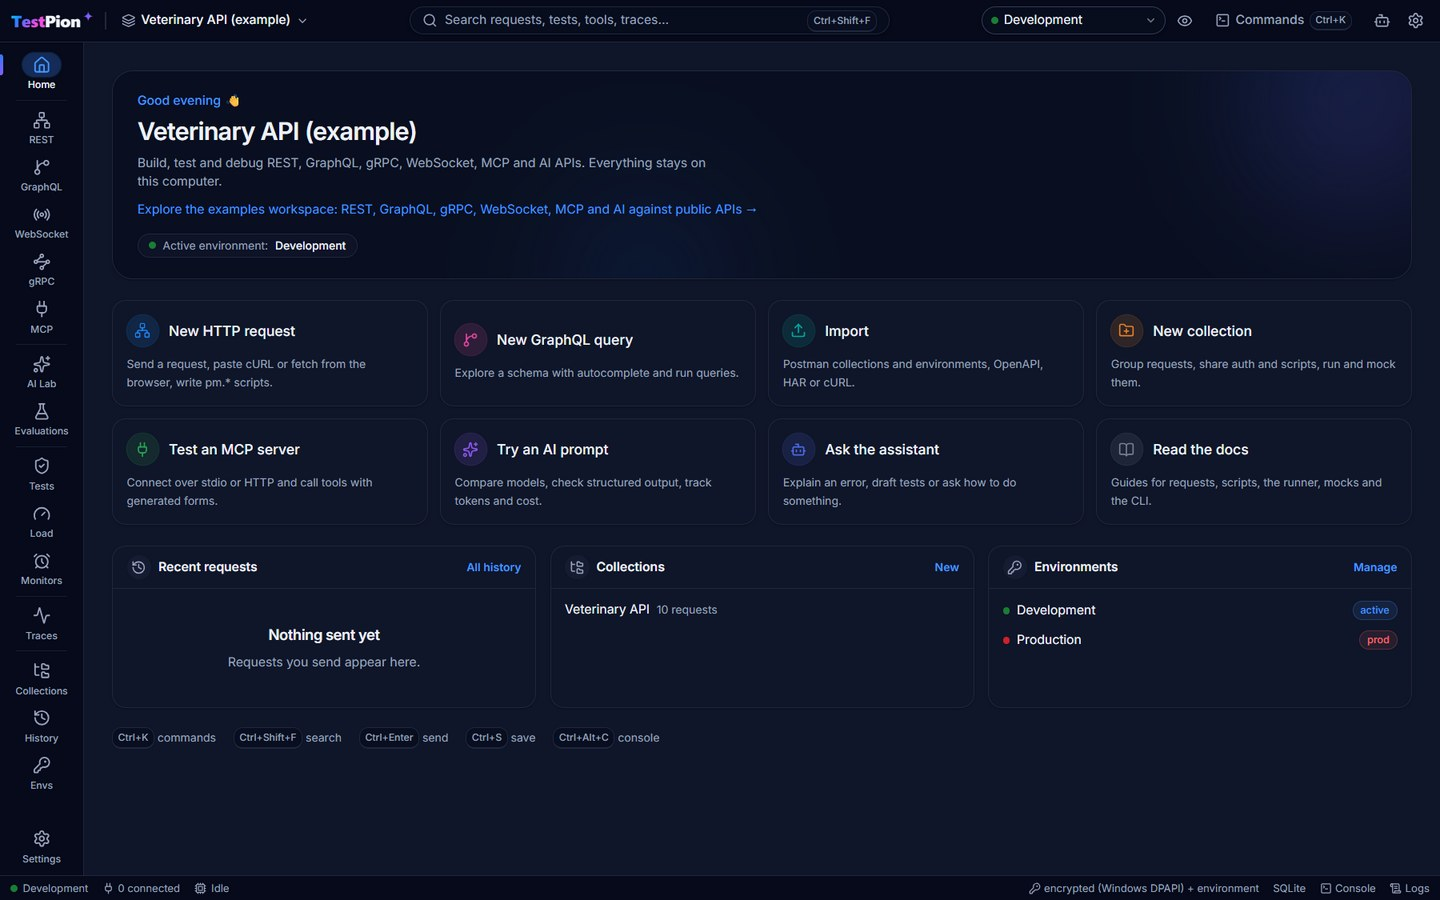
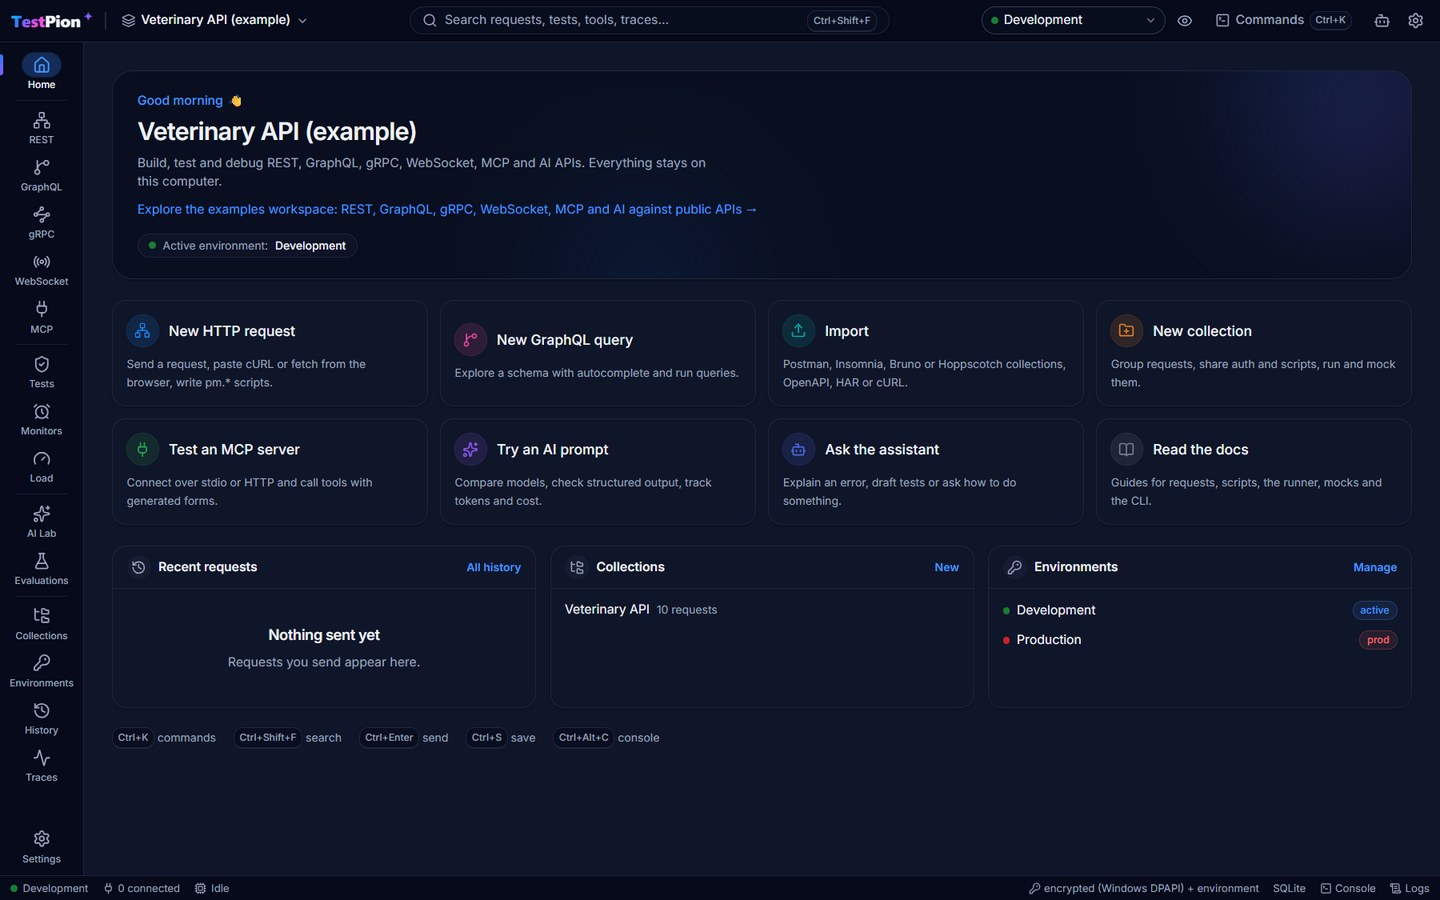
Release v0.9.0: MQTT, HTTP/2, WSDL and Bruno, async scripts and packages, MCP client features, load thresholds, watch and re-run failed, OTLP export, UI tidy-up

diff --git a/packages/core/src/version.ts b/packages/core/src/version.ts
@@ -1,2 +1,2 @@
 /** TestPion's version (the engine, CLI and app are released together). */
-export const ENGINE_VERSION = '0.8.0';
+export const ENGINE_VERSION = '0.9.0';

diff --git a/CHANGELOG.md b/CHANGELOG.md
@@ -1,6 +1,8 @@
 # Changelog
 
-## Unreleased
+## 0.9.0 — 2026-09-30
+
+Highlights: **MQTT** alongside WebSocket and Socket.IO; **HTTP/2**; **WSDL/SOAP**, **Bruno** folder import and export, HTTPie and grpcurl paste; **async scripts** (`await pm.sendRequest`, async `pm.test`), **script packages** (`pm.require`) and more Postman modules (ajv, chai, cheerio, xml2js, csv-parse); **MCP client features** (elicitation, sampling, roots, completions, resource subscriptions); **load-test thresholds** and **gRPC load tests**; **watch mode**, **re-run failed tests** and **OpenTelemetry export** in the CLI; tests run from AI agents over MCP (`list_tests`, `run_tests`, `save_test`), **Explain with AI** for failed tests; and a tidier UI: grouped navigation, collections in the GraphQL view, filterable saved lists and a clearer Tests sidebar.
 
 - **Tests view sidebar**: a labelled **New** menu for test templates (REST, GraphQL, gRPC, WebSocket, MQTT, MCP, AI, suite) in place of the small + picker, and a filter box for test files.
 - **Collections in the GraphQL view**: a Collections / Schema switch in the sidebar shows the same collection tree as REST (new collections and folders, **New GraphQL request** in any folder, drag and drop, run, move), **Save** (now also Ctrl+S) asks for the collection and folder, and HTTP requests in the tree open in REST.
